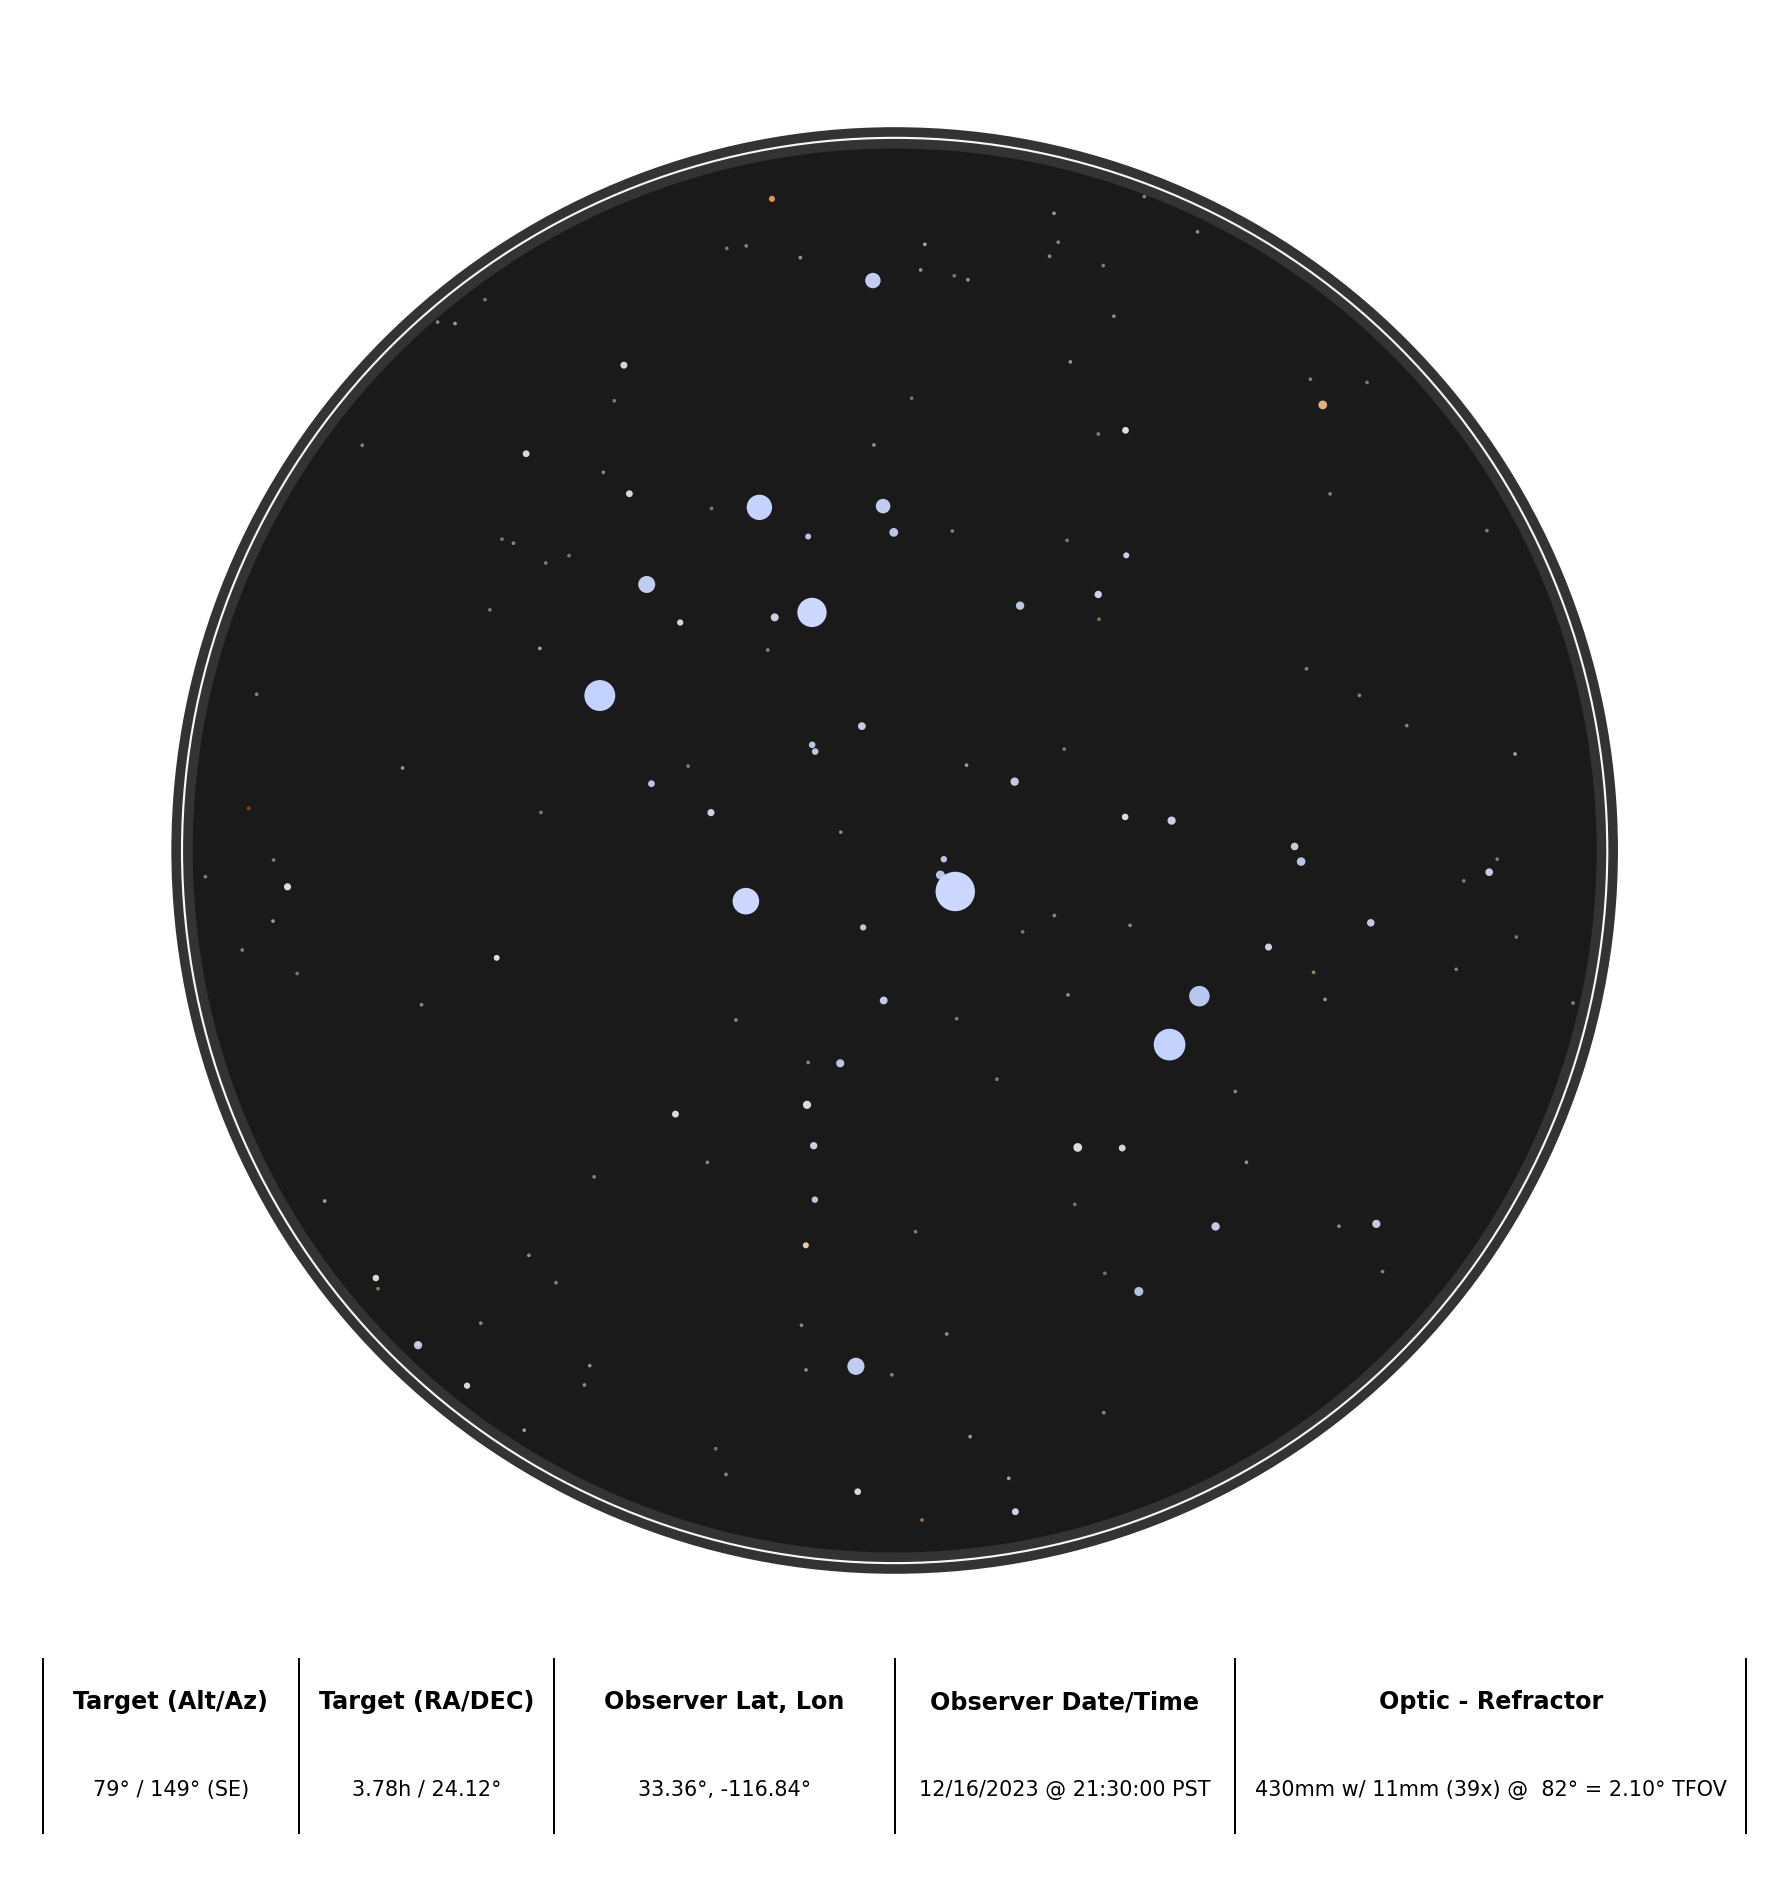
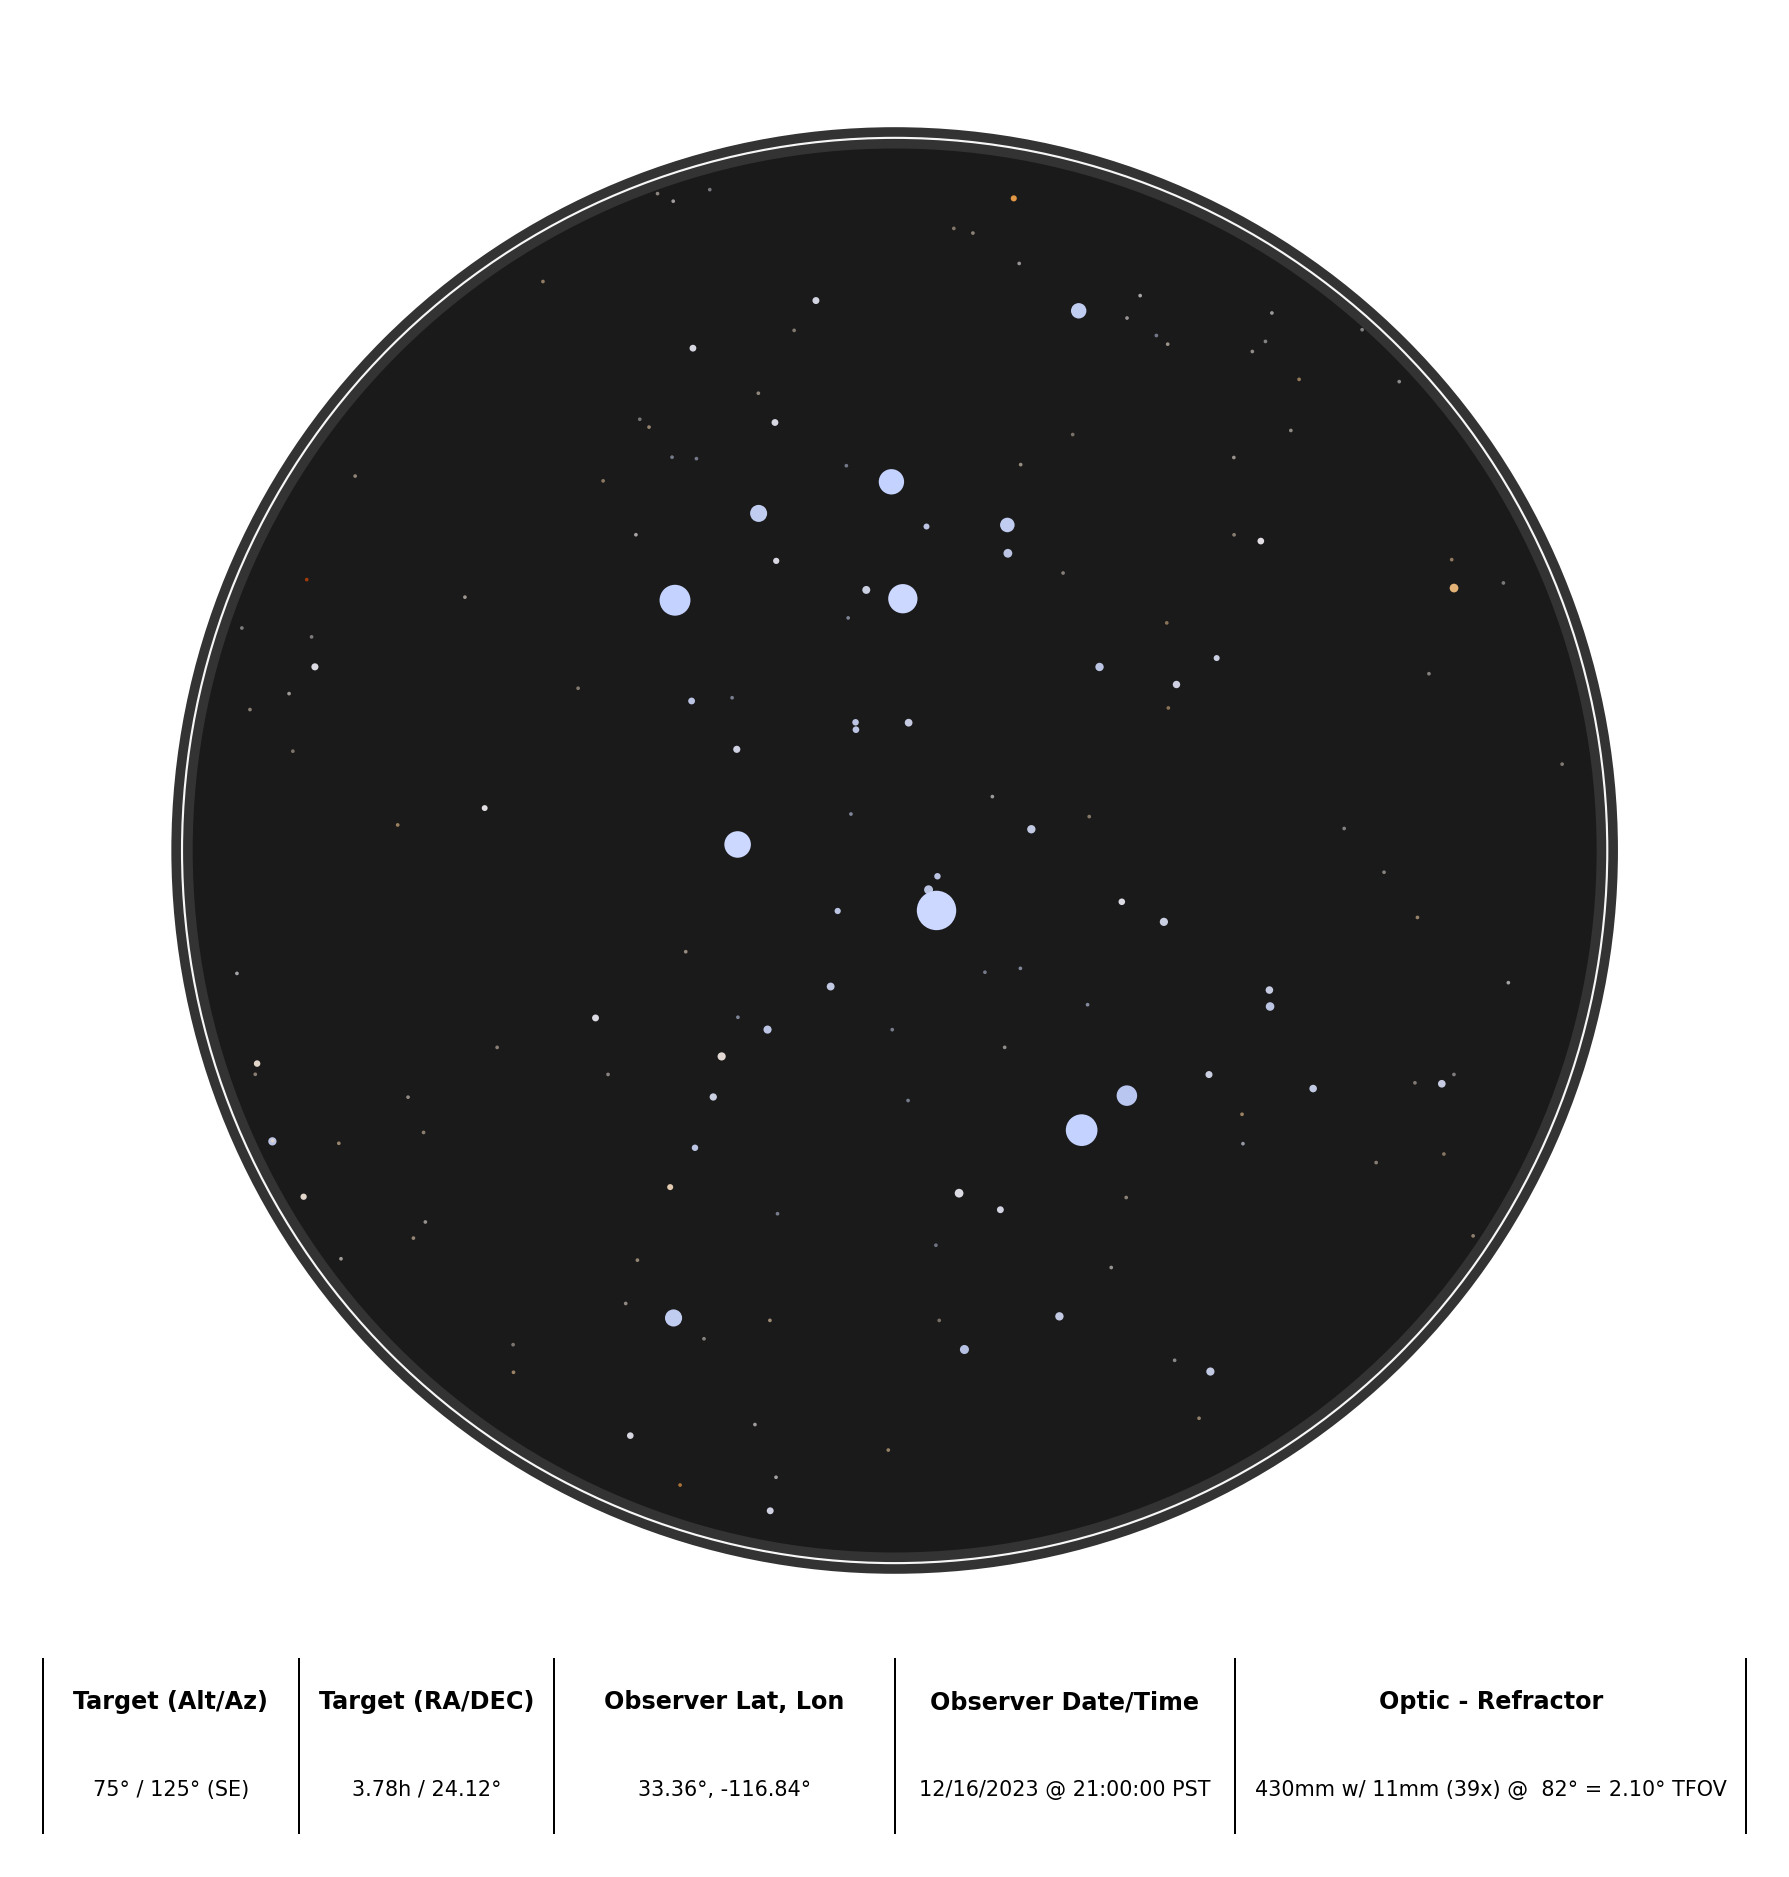
time

diff --git a/examples/example_05.py b/examples/example_05.py
@@ -4,7 +4,7 @@ from starplot import OpticPlot
 from starplot.optic import Refractor
 from starplot.styles import PlotStyle, extensions
 
-dt = datetime.now(timezone("US/Pacific")).replace(2023, 12, 16, 21, 30, 0)
+dt = datetime.now(timezone("US/Pacific")).replace(2023, 12, 16, 21, 0, 0)
 
 style = PlotStyle().extend(
     extensions.MINIMAL,
